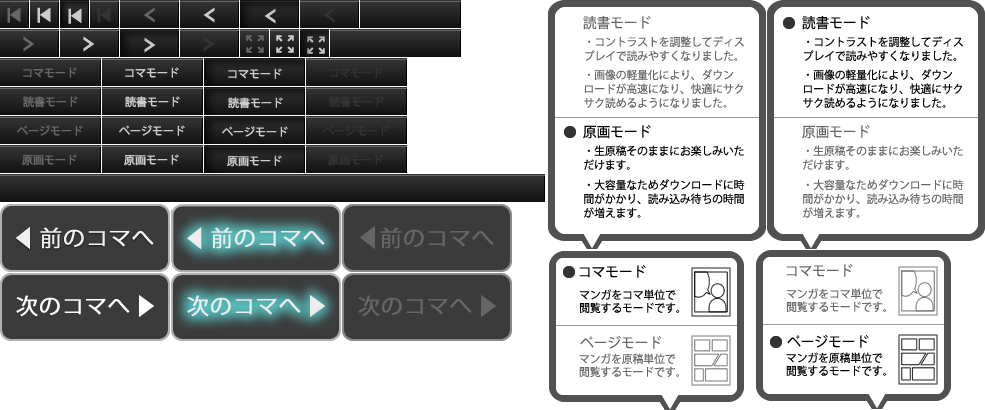
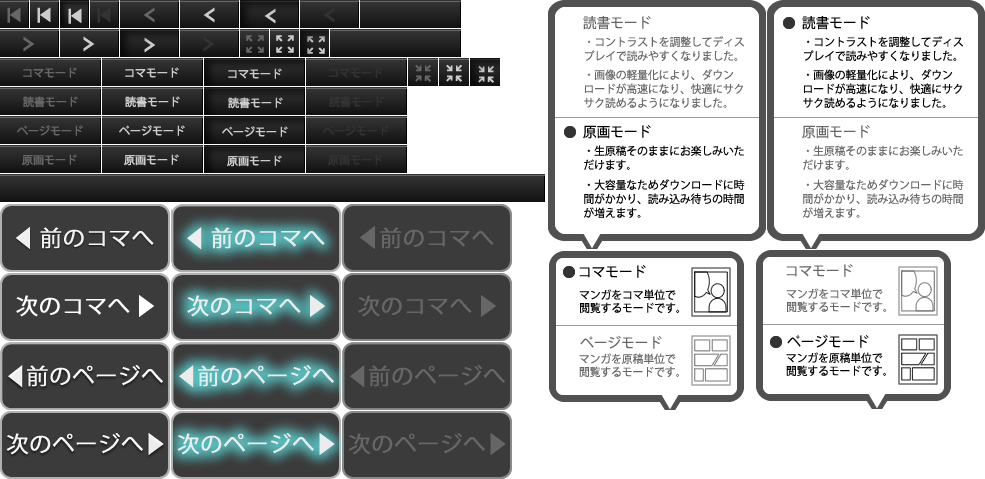
fixed bug

diff --git a/target/dist-release/ja_pc.html b/target/dist-release/ja_pc.html
@@ -10,30 +10,30 @@ var ga = document.createElement('script'); ga.type = 'text/javascript'; ga.async
 ga.src = ('https:' == document.location.protocol ? 'https://ssl' : 'http://www') + '.google-analytics.com/ga.js';
 var s = document.getElementsByTagName('script')[0]; s.parentNode.insertBefore(ga, s);
 })();
-var i=true,o=null,r=false;function L(){return function(){}}var ha={};ha["{comic_title} / #{story_number} {story_title} ({scene_number} / {number_of_scenes} frames)"]={ja:"{comic_title} / \u7b2c{story_number}\u8a71 {story_title} ({scene_number}\u30b3\u30de\u76ee / \u5408\u8a08{number_of_scenes}\u30b3\u30de)"};ha["Loading images"]={ja:"\u7b2c{story_number}/{number_of_story}\u8a71 {story_title}"};function ka(e,d,g,h){function I(){m=U;F(t);$("#toggle_page_view").hide();$("#toggle_scene_view").show();$("#prev_page").hide();$("#prev_show").show()}function Y(){console.log("change_view_page");if(M.enable_page_mode){m=1;F(w);$("#toggle_scene_view").hide();$("#toggle_page_view").show();$("#prev_scene").hide();$("#prev_page").show()}}function V(){s="reading";m===1?F(w):F(t);$("#toggle_original").hide();$("#toggle_reading").show()}function q(){if(M.enable_original_mode){s="original";m===1?F(w):F(t);
-$("#toggle_reading").hide();$("#toggle_original").show()}}function J(a){aa=a;n();j();B=[];B.original=[];B.reading=[];C=[];C.original=[];C.reading=[];D=o;w=t=0;M=o;ba=i;N(0);$("#canvas").css({cursor:"default"});$("#dialog_loading").show();$("#reader").hide();$("#finish").hide();$("#error").hide();ya(aa,function(b){M=b;D=M.scenes;W=M.pages;ra();if(M.enable_original_mode){p($("#toggle_reading"));$("#toggle_reading").bind(x,q);$("#toggle_original").bind(x,V)}if(M.enable_page_mode){p($("#toggle_scene_view"));
-$("#toggle_scene_view").bind(x,Y);$("#toggle_page_view").bind(x,I)}$("#prev_scene").bind(x,K);$("#prev_page").bind(x,K);$("#first_scene").bind(x,X);if(D.length===0)ca();else{da();F(0)}d||za(aa,function(c){console.log(c)})},function(){la()});_gaq.push(["_trackPageview","/event/viewer/open/"+aa])}function j(){if(C!==undefined)for(var a=0;a<C.reading.length;a++){var b=C.reading[a];if(b!==undefined)b.onload=o;b=C.original[a];if(b!==undefined)b.onload=o}}function n(){if(B!==undefined)for(var a=0;a<B.reading.length;a++){var b=
-B.reading[a];if(b!==undefined)b.onload=o;b=B.original[a];if(b!==undefined)b.onload=o}}function da(){function a(b){u();P(b)}$("#canvas").css({cursor:"pointer"});$("#dialog_loading").hide();$("#reader").show();$("#finish").hide();$("#error").hide();$("#canvas").unbind(S,a);$("#canvas").bind(S,a);qa("Loading images");ba=r}function u(){v.reverse=r;v.D=i;if(v.q()){v.w();ea()}else if(v.e()){v.v();ma()}else if(v.p()){if(!ba){var a;a=m===1?w+1:t+1;m===1&&a>=W.length||m===U&&a>=D.length?ca():F(a)}}else throw"Illega state";
-}function ea(){if(v.e()){v.step();ma()}v.e()&&setTimeout(ea,1E3/33)}function ca(){var a=M.next_story_id,b=M.comic_id;N();$("#next").unbind(x);$("#vote").unbind(x);$("#bookmark").unbind(x);if(e){setTimeout(function(){$("#vote").bind(S,function(){k($("#vote"),0)});$("#vote").bind(x,function(c){k($("#vote"),0);setTimeout(function(){Aa(b,aa,function(){na(a,b,"vote")},function(){la()});y()},0);P(c)});$("#bookmark").bind(S,function(){k($("#bookmark"),0)});$("#bookmark").bind(x,function(c){k($("#bookmark"),
-0);setTimeout(function(){Ba(b,function(){na(a,b,"bookmark")},function(){la()});y()},0);P(c)});p($("#vote"));p($("#bookmark"))},500);l($("#vote"));l($("#bookmark"))}else if(d){$("#vote").hide();$("#bookmark").hide()}else{l($("#vote"));l($("#bookmark"))}if(d)$("#next").hide();else{l($("#next"));setTimeout(function(){$("#next").bind(S,function(){k($("#next"),0)});$("#next").bind(x,function(c){setTimeout(function(){na(a,b,"")},0);y();P(c)});p($("#next"))},500)}$("#preview").hide();$("#loading").hide();
-$("#reader").show();$("#error").hide();$("#finish").show();$("#finish_actions").show()}function y(){G();$("#next").hide();$("#vote").hide();$("#bookmark").hide();$("#loading").show();$("#canvas").css({cursor:"wait"})}function z(a){N(500);P(a)}function N(a){if(!($("#menu").css("top")==="0px"||h)){$("#menu_switch").unbind(S,z);$("#menu").animate({top:"0"},a,"swing",function(){$("#menu_switch").unbind(S,z)});if(m===U&&t===0){l($("#prev_scene"));l($("#first_scene"))}else{p($("#prev_scene"));p($("#first_scene"))}if(m===
-1&&w===0){l($("#prev_page"));l($("#first_scene"))}else{p($("#prev_page"));p($("#first_scene"))}}}function G(){$("#menu").css("top")==="0px"&&$("#menu").animate({top:"-132px"},500,"swing",function(){$("#menu_switch").bind(S,z)})}function X(a){if(!(m===1&&0===w||m===U&&0===t)){k($("#first_scene"),500);ia();F(0)}P(a)}function K(a){console.log("goPrev");if(!(m===1&&0===w||m===U&&0===t)){m===1?k($("#prev_page"),500):k($("#prev_scene"),500);ia();var b;b=m===1?w-1:t-1;0<=b&&F(b)}P(a)}function p(a){a.removeClass("disable")}
-function l(a){a.addClass("disable")}function k(a,b){a.addClass("active");0<b&&setTimeout(function(){a.removeClass("active")},b)}function ia(){$("#finish").hide();$("#finish_actions").hide()}function F(a){function b(){if(m===U){var f=D[t];v.h(c,f.scroll_course,f.scroll_speed)}else v.h(c,0,240);$("#loading").hide();ba=r;ma()}G();m===1?ja(a):A(a);Ca(a);ra();var c;c=m===1?C[s][a]:B[s][a];if(c!==undefined&&c.d())b();else{ba=i;N(500);$("#loading").show();v.o();c.onload=b}}function ja(a){var b=a-1;a+=4;
-for(var c=0;c<W.length;c++)if(c<b&&C[s][c]!==undefined)C[s][c]=undefined;else if(b<=c&&c<=a&&C[s][c]===undefined)C[s][c]=Q(W[c].page_id,s,R(fa,W[c].support_size)?fa:W[c].support_size[0])}function A(a){var b=a-4;a+=12;for(var c=0;c<D.length;c++)if(c<b&&B[s][c]!==undefined)B[s][c]=undefined;else if(b<=c&&c<=a&&B[s][c]===undefined)B[s][c]=oa(D[c].scene_id,s,R(fa,D[c].support_size)?fa:D[c].support_size[0])}function Q(a,b,c){var f=new Image;f.d=function(){return this.width>0};f.onerror=function(){console.log("error!"+
-a)};var E="";if(g>0)E="?t="+g;f.src="/api/pageImage/"+a+"/"+b+"/"+c+E;return f}function oa(a,b,c){var f=new Image;f.d=function(){return this.width>0};f.onerror=function(){console.log("error!"+a)};var E="";if(g>0)E="?t="+g;f.src="/api/sceneImage/"+a+"/"+b+"/"+c+E;return f}function na(a,b,c){var f="";if(c!=="")f="?after="+c;parent.document.location.href=a===r?"/comic/view/"+b+"/story/_undelivered"+f:e?"/comic/view/"+b+"/story/"+a+f:"/comic/landing/nomember?next=/comic/view/"+b+"/story/"+a}function la(){$("#preview").show();
-$("#loading").hide();$("#reader").hide();$("#finish").hide();$("#error").show()}function ra(){if(m===1){$("#progress_total").text(W.length);$("#progress_current").text(w+1)}else{$("#progress_total").text(D.length);$("#progress_current").text(t+1)}}function za(a,b){pa("/api/read/"+a,b,void 0)}function Ba(a,b,c){pa("/api/bookmark/"+a,b,c)}function Aa(a,b,c,f){pa("/api/voteStory/"+a+"/"+b+"/1",c,f)}function ya(a,b,c){var f="",E=i;if(d){f="?mode=superuser&k="+ta+"&expire="+ua;E=r}else if(g>0)f="?t="+
-g;va("/api/storyMetaFile/"+a+f,"json",b,c,"get",E)}function pa(a,b,c){va(a,"json",b,c,"post",r)}function va(a,b,c,f,E,Da){$.ajax({url:a,type:E,async:i,cache:Da,dataType:b,success:function(wa){c(wa)},error:function(wa,Ea,Fa){console.log(this);console.log(Ea);console.log(Fa);f()}})}function ma(){var a;a=m===1?C[s][w]:B[s][t];if(!(a===undefined||!a.d())){var b=v.x(),c=v.y();b=(O-a.width)/2+b;c=(T-a.height)/2+c;if(Z.a){a.style.cssText="position: absolute; top: "+c+"px; left:"+b+"px;";$("#canvas").empty().append(a)}else{var f=
-H.getContext("2d");f.fillStyle=H.style.background;f.fillRect(0,0,O,T);if(Z.c){f.save();var E=Math.sqrt(320/screen.width);f.scale(E,E)}f.drawImage(a,b,c);Z.c&&f.restore()}}}function Ca(a){if(m===1){w=a;a=0;for(var b;b<D.length;b++){if(w===D.i.page_number)break;a++}t=a}else{t=a;w=D[t].page_number}}function P(a){if(Z.a)a.returnValue=r;else a.preventDefault()}var O=0,T=0,s="reading",U=0,m=U,aa,M,D,W,B,C,t=0,w=0,ba=r,ta="",ua=0,fa=240;Z.a&&$("#canvas").replaceWith('<div id="canvas" style="background: #000;"></div>');
-var ga=function(){var a=[],b;b=window.location.href.slice(window.location.href.indexOf("?")+1);if(!b)return a;for(var c=b.split("&"),f=0;f<c.length;f++)if(!(c[f].indexOf("=")<0)){b=c[f].split("=");a.push(b[0]);a[b[0]]=b[1].split("#")[0]}return a}();if(d){ta=ga.k;ua=ga.expire}var S=Z.b?"touchstart":"mousedown",x=Z.b?"touchend":"mouseup",H;if(Z.a&&Z.g<8){O=$(window).width();T=$(window).height();$("#mangh5r").width(O);$("#mangh5r").height(T);$("#canvas").width(O);$("#canvas").height(T)}else{ga=$("#mangh5r");
-O=ga.width();T=ga.height();H=$("#canvas")[0];H.width=O;H.style.width=O+"px";H.height=T;H.style.height=O+"px"}fa=H.width<320?240:H.width<480?320:H.width<640?480:640;var v=new sa(O,T);this.u=function(a){$("#thumbnail").attr("src","/icon/story_image/medium/"+a);$("#thumbnail").hide();$("#thumbnail").bind("load",function(){$("#thumbnail").width(H.width);$("#thumbnail").height(H.width*($("#thumbnail").height()/$("#thumbnail").width()));Z.m($("#thumbnail"));$("#thumbnail").show()});$("#preview_ui").show();
-$("#preview").show();$("#preview > *").unbind("click");$("#preview > *").click(function(b){J(a);$("#preview").hide();P(b)})};$(window).keydown(function(a){if(a.which===32||a.which===13||a.which===39||a.Q===40){$("#canvas").trigger("mousedown");a.preventDefault()}else if(a.which===8||a.which===37||a.which===38){"#prev_scene".trigger("mouseup");a.preventDefault()}});this.t=J;this.G=u;$("#menu").css("top","-132px");$("#menu").show();$("#menu_tab").bind(x,function(a){G();P(a)});l($("#toggle_reading"));
-l($("#toggle_scene_view"))};var Z,xa,qa;function Ga(e){e=parseInt(e,10);return isNaN(e)?0:e}function R(e,d){for(var g=0;g<d.length;g++)if(e===d[g])return i;return r}
-function Ha(){this.b=this.c=this.g=this.a=r;this.constructor=function(){if(typeof window.console!=="object")window.console={log:L(),C:L(),info:L(),warn:L(),error:L(),A:L(),dir:L(),F:L(),P:L(),H:L(),I:L(),f:L(),O:L(),profile:L(),K:L(),B:L()};qa=this.n;var e=navigator.userAgent;if(navigator.appName==="Microsoft Internet Explorer"){this.a=i;var d=e.match(/MSIE ([0-9]{1,}[\.0-9]{0,})/);this.g=d!==o?parseFloat(d[1]):6}else this.a=r;if(/Android\s2\.[0|1]/.test(e))this.b=this.c=i;else this.b=/Android/.test(e)?
-i:/iPhone\sOS/.test(e)?i:r};this.m=function(e){e.each(function(){var d=$(window),g=d.height();d=d.width();var h=$(this),I=h.width(),Y=h.height(),V=Ga(h.css("padding-top")),q=Ga(h.css("padding-bottom")),J=Ga(h.css("border-top-width")),j=Ga(h.css("border-bottom-width"));J=(J+j)/2;V=(V+q)/2;q=h.parent().css("position");j={position:"absolute"};j.top=g/2-(Y/2+V+J);j.marginTop=0;j.left=d/2-I/2;j.marginLeft=0;q==="static"&&h.parent().css("position","relative");h.css(j)})};this.n=function(e){if(ha===undefined)return e;
-var d=ha[e];if(d===undefined)return e;d=d.ja;if(d===undefined)return e;return d};this.M=function(e,d){var g=e,h;for(h in d)if(d.hasOwnProperty(h))g=g.replace("{"+h+"}",d[h]);return g};this.J=function(e){var d={};if(e==="undefined"){console.log("GET:Empty");return d}if(e.indexOf("?",0)>-1)e=e.split("?")[1];e=e.split("&");for(var g=0;e.length>g;g++){var h=e[g].split("="),I=h[0];h=h[1];if(I!=="")d[I]=h===undefined?i:decodeURIComponent(h)}return d};this.constructor()}
-$(function(){Z=new Ha;var e=function(){var d;d=location.hash;d=d===undefined||d===o||d.length<=2?[0]:d.substring(1).split(",");var g={};g.j=Math.floor(d[0]);g.r=R("member",d);g.l=R("auto",d);g.z=R("superuser",d);g.s=R("nomenu",d);for(var h=g.f=0;h<d.length;h++){var I;I=d[h].match(/[^0-9]/g)?r:i;if(I){g.f=d[h];break}}console.log(d);console.log(g);return g}();xa=new ka(e.r,e.z,e.f,e.s);e.l?xa.t(e.j):xa.u(e.j)});function sa(e,d){function g(){if(!(j<=n)){p=Y[u][n];l=V[u][n];if(p!==0&&l!==0){var A=G-N,Q=K-X;if(A<Q){if(A!==0)p=p*Q/A}else if(A>Q)if(Q!==0)l=l*A/Q}if(p!==0)p=da*1E4/p;if(l!==0)l=da*1E4/l}}var h=[0,0,0,-1,1,-1,-1,1,1],I=[0,1,-1,0,0,1,1,1,1],Y=[[0,0,0],[0,0,0],[0,0,0],[3300,0,0],[-3300,0,0],[0,3300,0],[3300,-3300,3300],[0,-3300,0],[-3300,3300,-3300]],V=[[0,0,0],[-3300,0,0],[3300,0,0],[0,0,0],[0,0,0],[-3300,3300,-3300],[0,-3300,0],[-3300,3300,-3300],[0,-3300,0]],q=r,J=r,j,n,da,u,ea,ca,y=0,z=0,N,G,
-X,K,p,l,k=r,ia=this.o=function(){j=n=0;k=J=q=r};this.x=function(){return y/100};this.y=function(){return z/100};this.p=function(){return j===0||q===r&&n===j};this.q=function(){return k?j!=0&&q==r&&n>=j:j!=0&&q==r&&n<=0};this.N=function(){q=i;n=j-1};var F=this.e=function(){return q};this.w=function(){q=i};this.h=function(A,Q,oa){ia();da=oa;u=Q;ea=A.width;ca=A.height;j=Y[u].length;G=(ea-e)*100/2;N=-G;scrollable_y=scrollable_x=r;if(G<=0)y=0;else{y=(k?-1:1)*h[u]*G;scrollable_x=i}K=(ca-d)*100/2;X=-K;if(K<=
-0)z=0;else{z=(k?-1:1)*I[u]*K;scrollable_y=i}J=r;if(u!=0&&(scrollable_x||scrollable_y)){J=i;if(u>4)if(scrollable_x)scrollable_y||(u=u==5||u==6?3:4);else u=1}J||(j=0);n=k&&n<j?j:0;g();q=r};var ja=this.step=function(){if(q)if(!(!k&&j<=n||k&&n<0)){g();var A=r;if(p!==0&&y>=N&&y<=G){y+=k?-p:p;if(y<=N)y=N;else if(y>=G)y=G;else A=i}if(l!==0&&z>=X&&z<=K){z+=k?-l:l;if(z<=X)z=X;else if(z>=K)z=K;else A=i}if(!A){if(k)n--;else n++;if(!k&&n>=j)q=r;else if(k&&n<0)q=r}}};this.v=function(){for(;n<j&&F();)ja()};this.L=
-function(){q=k=i;for(n--;0<n;)ja()}};
+var i=true,m=null,r=false;function M(){return function(){}}var aa={};aa["{comic_title} / #{story_number} {story_title} ({scene_number} / {number_of_scenes} frames)"]={ja:"{comic_title} / \u7b2c{story_number}\u8a71 {story_title} ({scene_number}\u30b3\u30de\u76ee / \u5408\u8a08{number_of_scenes}\u30b3\u30de)"};aa["Loading images"]={ja:"\u7b2c{story_number}/{number_of_story}\u8a71 {story_title}"};function ia(e,d,g,h){function I(){n=V;F(t);$("#toggle_page_view").hide();$("#toggle_scene_view").show();$("#prev_page").hide();$("#prev_scene").show()}function Z(){console.log("change_view_page");if(J.enable_page_mode){n=1;F(w);$("#toggle_scene_view").hide();$("#toggle_page_view").show();$("#prev_scene").hide();$("#prev_page").show()}}function W(){s="reading";n===1?F(w):F(t);$("#toggle_original").hide();$("#toggle_reading").show()}function q(){if(J.enable_original_mode){s="original";n===1?F(w):F(t);
+$("#toggle_reading").hide();$("#toggle_original").show()}}function K(a){ba=a;o();j();B=[];B.original=[];B.reading=[];C=[];C.original=[];C.reading=[];D=m;w=t=0;J=m;ca=i;N(0);$("#canvas").css({cursor:"default"});$("#dialog_loading").show();$("#reader").hide();$("#finish").hide();$("#error").hide();Aa(ba,function(b){J=b;D=J.scenes;X=J.pages;if(J.csn)ja=i;ta();if(J.enable_original_mode){p($("#toggle_reading"));$("#toggle_reading").bind(x,q);$("#toggle_original").bind(x,W)}if(J.enable_page_mode){p($("#toggle_scene_view"));
+$("#toggle_scene_view").bind(x,Z);$("#toggle_page_view").bind(x,I)}$("#prev_scene").bind(x,L);$("#prev_page").bind(x,L);$("#first_scene").bind(x,Y);if(D.length===0)da();else{ea();F(0)}d||Ba(ba,function(c){console.log(c)})},function(){na()});_gaq.push(["_trackPageview","/event/viewer/open/"+ba])}function j(){if(C!==undefined)for(var a=0;a<C.reading.length;a++){var b=C.reading[a];if(b!==undefined)b.onload=m;b=C.original[a];if(b!==undefined)b.onload=m}}function o(){if(B!==undefined)for(var a=0;a<B.reading.length;a++){var b=
+B.reading[a];if(b!==undefined)b.onload=m;b=B.original[a];if(b!==undefined)b.onload=m}}function ea(){function a(b){u();Q(b)}$("#canvas").css({cursor:"pointer"});$("#dialog_loading").hide();$("#reader").show();$("#finish").hide();$("#error").hide();$("#canvas").unbind(T,a);$("#canvas").bind(T,a);ma("Loading images");ca=r}function u(){v.reverse=r;v.C=i;if(v.p()){v.v();fa()}else if(v.e()){v.u();oa()}else if(v.o()){if(!ca){var a;a=n===1?w+1:t+1;n===1&&a>=X.length||n===V&&a>=D.length?da():F(a)}}else throw"Illega state";
+}function fa(){if(v.e()){v.step();oa()}v.e()&&setTimeout(fa,1E3/33)}function da(){var a=J.next_story_id,b=J.comic_id;N();$("#next").unbind(x);$("#vote").unbind(x);$("#bookmark").unbind(x);if(e){setTimeout(function(){$("#vote").bind(T,function(){k($("#vote"),0)});$("#vote").bind(x,function(c){k($("#vote"),0);setTimeout(function(){Ca(b,ba,function(){pa(a,b,"vote")},function(){na()});y()},0);Q(c)});$("#bookmark").bind(T,function(){k($("#bookmark"),0)});$("#bookmark").bind(x,function(c){k($("#bookmark"),
+0);setTimeout(function(){Da(b,function(){pa(a,b,"bookmark")},function(){na()});y()},0);Q(c)});p($("#vote"));p($("#bookmark"))},500);l($("#vote"));l($("#bookmark"))}else if(d){$("#vote").hide();$("#bookmark").hide()}else{l($("#vote"));l($("#bookmark"))}if(d)$("#next").hide();else{l($("#next"));setTimeout(function(){$("#next").bind(T,function(){k($("#next"),0)});$("#next").bind(x,function(c){setTimeout(function(){pa(a,b,"")},0);y();Q(c)});p($("#next"))},500)}$("#preview").hide();$("#loading").hide();
+$("#reader").show();$("#error").hide();$("#finish").show();$("#finish_actions").show()}function y(){G();$("#next").hide();$("#vote").hide();$("#bookmark").hide();$("#loading").show();$("#canvas").css({cursor:"wait"})}function z(a){N(500);Q(a)}function N(a){if(!($("#menu").css("top")==="0px"||h)){$("#menu_switch").unbind(T,z);$("#menu").animate({top:"0"},a,"swing",function(){$("#menu_switch").unbind(T,z)});if(n===V&&t===0){l($("#prev_scene"));l($("#first_scene"))}else{p($("#prev_scene"));p($("#first_scene"))}if(n===
+1&&w===0){l($("#prev_page"));l($("#first_scene"))}else{p($("#prev_page"));p($("#first_scene"))}}}function G(){$("#menu").css("top")==="0px"&&$("#menu").animate({top:"-132px"},500,"swing",function(){$("#menu_switch").bind(T,z)})}function Y(a){if(!(n===1&&0===w||n===V&&0===t)){k($("#first_scene"),500);ka();F(0)}Q(a)}function L(a){console.log("goPrev");if(!(n===1&&0===w||n===V&&0===t)){n===1?k($("#prev_page"),500):k($("#prev_scene"),500);ka();var b;b=n===1?w-1:t-1;0<=b&&F(b)}Q(a)}function p(a){a.removeClass("disable")}
+function l(a){a.addClass("disable")}function k(a,b){a.addClass("active");0<b&&setTimeout(function(){a.removeClass("active")},b)}function ka(){$("#finish").hide();$("#finish_actions").hide()}function F(a){function b(){if(n===V){var f=D[t];v.h(c,f.scroll_course,f.scroll_speed)}else v.h(c,0,240);$("#loading").hide();ca=r;oa()}G();n===1?la(a):A(a);Ea(a);ta();var c;c=n===1?C[s][a]:B[s][a];if(c!==undefined&&c.d())b();else{ca=i;N(500);$("#loading").show();v.n();c.onload=b}}function la(a){var b=a-1;a+=4;
+for(var c=0;c<X.length;c++)if(c<b&&C[s][c]!==undefined)C[s][c]=undefined;else if(b<=c&&c<=a&&C[s][c]===undefined)C[s][c]=R(X[c].page_id,s,sa(ga,X[c].support_size)?ga:X[c].support_size[0])}function A(a){var b=a-4;a+=12;for(var c=0;c<D.length;c++)if(c<b&&B[s][c]!==undefined)B[s][c]=undefined;else if(b<=c&&c<=a&&B[s][c]===undefined)B[s][c]=qa(D[c].scene_id,s,sa(ga,D[c].support_size)?ga:D[c].support_size[0])}function R(a,b,c){var f=new Image;f.d=function(){return this.width>0};f.onerror=function(){console.log("error!"+
+a)};var E="";if(g>0)E="?t="+g;var O="";if(ja)O="http://cdn."+location.host;f.src=O+"/api/pageImage/"+a+"/"+b+"/"+c+E;return f}function qa(a,b,c){var f=new Image;f.d=function(){return this.width>0};f.onerror=function(){console.log("error!"+a)};var E="";if(g>0)E="?t="+g;var O="";if(ja)O="http://cdn."+location.host;f.src=O+"/api/sceneImage/"+a+"/"+b+"/"+c+E;return f}function pa(a,b,c){var f="";if(c!=="")f="?after="+c;parent.document.location.href=a===r?"/comic/view/"+b+"/story/_undelivered"+f:e?"/comic/view/"+
+b+"/story/"+a+f:"/comic/landing/nomember?next=/comic/view/"+b+"/story/"+a}function na(){$("#preview").show();$("#loading").hide();$("#reader").hide();$("#finish").hide();$("#error").show()}function ta(){if(n===1){$("#progress_total").text(X.length);$("#progress_current").text(w+1)}else{$("#progress_total").text(D.length);$("#progress_current").text(t+1)}}function Ba(a,b){ra("/api/read/"+a,b,void 0)}function Da(a,b,c){ra("/api/bookmark/"+a,b,c)}function Ca(a,b,c,f){ra("/api/voteStory/"+a+"/"+b+"/1",
+c,f)}function Aa(a,b,c){var f="",E=i;if(d){f="?mode=superuser&k="+va+"&expire="+wa;E=r}else if(g>0)f="?t="+g;var O="";if(ja)O="http://cdn."+location.host;xa(O+"/api/storyMetaFile/"+a+f,"json",b,c,"get",E)}function ra(a,b,c){xa(a,"json",b,c,"post",r)}function xa(a,b,c,f,E,O){$.ajax({url:a,type:E,async:i,cache:O,dataType:b,success:function(ya){c(ya)},error:function(ya,Fa,Ga){console.log(this);console.log(Fa);console.log(Ga);f()}})}function oa(){var a;a=n===1?C[s][w]:B[s][t];if(!(a===undefined||!a.d())){var b=
+v.x(),c=v.y();b=(P-a.width)/2+b;c=(U-a.height)/2+c;if(S.a){a.style.cssText="position: absolute; top: "+c+"px; left:"+b+"px;";$("#canvas").empty().append(a)}else{var f=H.getContext("2d");f.fillStyle=H.style.background;f.fillRect(0,0,P,U);if(S.c){f.save();var E=Math.sqrt(320/screen.width);f.scale(E,E)}f.drawImage(a,b,c);S.c&&f.restore()}}}function Ea(a){if(n===1){w=a;a=0;for(var b;b<D.length;b++){if(w===D[b].page_number-1)break;a++}t=a}else{t=a;w=D[t].page_number-1}}function Q(a){if(S.a)a.returnValue=
+r;else a.preventDefault()}var P=0,U=0,s="reading",V=0,n=V,ba,J,D,X,B,C,t=0,w=0,ca=r,va="",wa=0,ga=240,ja=r;S.a&&$("#canvas").replaceWith('<div id="canvas" style="background: #000;"></div>');var ha=function(){var a=[],b;b=window.location.href.slice(window.location.href.indexOf("?")+1);if(!b)return a;for(var c=b.split("&"),f=0;f<c.length;f++)if(!(c[f].indexOf("=")<0)){b=c[f].split("=");a.push(b[0]);a[b[0]]=b[1].split("#")[0]}return a}();if(d){va=ha.k;wa=ha.expire}var T=S.b?"touchstart":"mousedown",
+x=S.b?"touchend":"mouseup",H;if(S.a&&S.g<8){P=$(window).width();U=$(window).height();$("#mangh5r").width(P);$("#mangh5r").height(U);$("#canvas").width(P);$("#canvas").height(U)}else{ha=$("#mangh5r");P=ha.width();U=ha.height();H=$("#canvas")[0];H.width=P;H.style.width=P+"px";H.height=U;H.style.height=P+"px"}ga=H.width<320?240:H.width<480?320:H.width<640?480:640;var v=new ua(P,U);this.t=function(a){$("#thumbnail").attr("src","/icon/story_image/medium/"+a);$("#thumbnail").hide();$("#thumbnail").bind("load",
+function(){$("#thumbnail").width(H.width);$("#thumbnail").height(H.width*($("#thumbnail").height()/$("#thumbnail").width()));S.l($("#thumbnail"));$("#thumbnail").show()});$("#preview_ui").show();$("#preview").show();$("#preview > *").unbind("click");$("#preview > *").click(function(b){K(a);$("#preview").hide();Q(b)})};$(window).keydown(function(a){if(a.which===32||a.which===13||a.which===39||a.P===40){$("#canvas").trigger("mousedown");a.preventDefault()}else if(a.which===8||a.which===37||a.which===
+38){"#prev_scene".trigger("mouseup");a.preventDefault()}});this.s=K;this.F=u;$("#menu").css("top","-132px");$("#menu").show();$("#menu_tab").bind(x,function(a){G();Q(a)});l($("#toggle_reading"));l($("#toggle_scene_view"))};var S,za,ma;function Ha(e){e=parseInt(e,10);return isNaN(e)?0:e}function sa(e,d){for(var g=0;g<d.length;g++)if(e===d[g])return i;return r}
+function Ia(){this.b=this.c=this.g=this.a=r;this.constructor=function(){if(typeof window.console!=="object")window.console={log:M(),B:M(),info:M(),warn:M(),error:M(),z:M(),dir:M(),D:M(),O:M(),G:M(),H:M(),f:M(),N:M(),profile:M(),J:M(),A:M()};ma=this.m;var e=navigator.userAgent;if(navigator.appName==="Microsoft Internet Explorer"){this.a=i;var d=e.match(/MSIE ([0-9]{1,}[\.0-9]{0,})/);this.g=d!==m?parseFloat(d[1]):6}else this.a=r;if(/Android\s2\.[0|1]/.test(e))this.b=this.c=i;else this.b=/Android/.test(e)?
+i:/iPhone\sOS/.test(e)?i:r};this.l=function(e){e.each(function(){var d=$(window),g=d.height();d=d.width();var h=$(this),I=h.width(),Z=h.height(),W=Ha(h.css("padding-top")),q=Ha(h.css("padding-bottom")),K=Ha(h.css("border-top-width")),j=Ha(h.css("border-bottom-width"));K=(K+j)/2;W=(W+q)/2;q=h.parent().css("position");j={position:"absolute"};j.top=g/2-(Z/2+W+K);j.marginTop=0;j.left=d/2-I/2;j.marginLeft=0;q==="static"&&h.parent().css("position","relative");h.css(j)})};this.m=function(e){if(aa===undefined)return e;
+var d=aa[e];if(d===undefined)return e;d=d.ja;if(d===undefined)return e;return d};this.L=function(e,d){var g=e,h;for(h in d)if(d.hasOwnProperty(h))g=g.replace("{"+h+"}",d[h]);return g};this.I=function(e){var d={};if(e==="undefined"){console.log("GET:Empty");return d}if(e.indexOf("?",0)>-1)e=e.split("?")[1];e=e.split("&");for(var g=0;e.length>g;g++){var h=e[g].split("="),I=h[0];h=h[1];if(I!=="")d[I]=h===undefined?i:decodeURIComponent(h)}return d};this.constructor()}
+$(function(){S=new Ia;var e=function(){var d;d=location.hash;d=d===undefined||d===m||d.length<=2?[0]:d.substring(1).split(",");var g={};g.i=Math.floor(d[0]);g.q=sa("member",d);g.j=sa("auto",d);g.w=sa("superuser",d);g.r=sa("nomenu",d);for(var h=g.f=0;h<d.length;h++){var I;I=d[h].match(/[^0-9]/g)?r:i;if(I){g.f=d[h];break}}console.log(d);console.log(g);return g}();za=new ia(e.q,e.w,e.f,e.r);e.j?za.s(e.i):za.t(e.i)});function ua(e,d){function g(){if(!(j<=o)){p=Z[u][o];l=W[u][o];if(p!==0&&l!==0){var A=G-N,R=L-Y;if(A<R){if(A!==0)p=p*R/A}else if(A>R)if(R!==0)l=l*A/R}if(p!==0)p=ea*1E4/p;if(l!==0)l=ea*1E4/l}}var h=[0,0,0,-1,1,-1,-1,1,1],I=[0,1,-1,0,0,1,1,1,1],Z=[[0,0,0],[0,0,0],[0,0,0],[3300,0,0],[-3300,0,0],[0,3300,0],[3300,-3300,3300],[0,-3300,0],[-3300,3300,-3300]],W=[[0,0,0],[-3300,0,0],[3300,0,0],[0,0,0],[0,0,0],[-3300,3300,-3300],[0,-3300,0],[-3300,3300,-3300],[0,-3300,0]],q=r,K=r,j,o,ea,u,fa,da,y=0,z=0,N,G,
+Y,L,p,l,k=r,ka=this.n=function(){j=o=0;k=K=q=r};this.x=function(){return y/100};this.y=function(){return z/100};this.o=function(){return j===0||q===r&&o===j};this.p=function(){return k?j!=0&&q==r&&o>=j:j!=0&&q==r&&o<=0};this.M=function(){q=i;o=j-1};var F=this.e=function(){return q};this.v=function(){q=i};this.h=function(A,R,qa){ka();ea=qa;u=R;fa=A.width;da=A.height;j=Z[u].length;G=(fa-e)*100/2;N=-G;scrollable_y=scrollable_x=r;if(G<=0)y=0;else{y=(k?-1:1)*h[u]*G;scrollable_x=i}L=(da-d)*100/2;Y=-L;if(L<=
+0)z=0;else{z=(k?-1:1)*I[u]*L;scrollable_y=i}K=r;if(u!=0&&(scrollable_x||scrollable_y)){K=i;if(u>4)if(scrollable_x)scrollable_y||(u=u==5||u==6?3:4);else u=1}K||(j=0);o=k&&o<j?j:0;g();q=r};var la=this.step=function(){if(q)if(!(!k&&j<=o||k&&o<0)){g();var A=r;if(p!==0&&y>=N&&y<=G){y+=k?-p:p;if(y<=N)y=N;else if(y>=G)y=G;else A=i}if(l!==0&&z>=Y&&z<=L){z+=k?-l:l;if(z<=Y)z=Y;else if(z>=L)z=L;else A=i}if(!A){if(k)o--;else o++;if(!k&&o>=j)q=r;else if(k&&o<0)q=r}}};this.u=function(){for(;o<j&&F();)la()};this.K=
+function(){q=k=i;for(o--;0<o;)la()}};
 
-</script><style type="text/css">body{font:12px Arial,sans-serif;background-color:#000;color:#fff;height:100%;width:100%;margin:0;overflow:hidden;position:fixed;-webkit-tap-highlight-color:rgba(0,0,0,0);-webkit-touch-callout:none;-webkit-user-select:none;}.stage{position:absolute;left:0;top:0;height:100%;width:100%;display:none;}.ui{z-index:10;cursor:pointer;}.mask{z-index:5;position:absolute;left:0;top:0;height:100%;width:100%;background:#000;filter:alpha(opacity = 40);opacity:.4;}.msg{position:fixed;top:0;left:0;z-index:10;background-color:black;padding:4px 12px 4px 12px;color:white;font-size:140%;}.vhcenter{width:100%;height:100%;}#mangh5r{position:absolute;left:0;top:0;height:100%;width:100%;padding:0;}#preview{z-index:1;}#preview_ui{z-index:10;position:absolute;cursor:pointer;}#preview_ui .preview_btn{position:absolute;}#start_ui{position:absolute;width:100%;top:50%;}#start{position:relative;display:block;margin:auto;}#thumbnail{z-index:2;position:absolute;left:0;top:0;}#dialog{z-index:10;position:absolute;width:100%;top:50%;}#dialog_loading{z-index:10;position:relative;margin:auto;}#loading .message{color:white;font-size:140%;padding:8px 4px;background-color:black;border-style:solid;border-width:thin;}#reader{z-index:1;}#canvas{z-index:2;cursor:pointer;display:block;position:absolute;left:0;top:0;height:100%;width:100%;}#reader *{cursor:pointer;}#unloaded{z-index:10;cursor:wait;}#info{z-index:9;}#finish{z-index:8;}#finish_ui{z-index:9;position:absolute;width:100%;bottom:10%;}#menu{position:absolute;z-index:10;left:0;top:0;width:100%;display:block;text-align:center;margin:0;background-color:rgba(0,0,0,0.75);filter:alpha(opacity = 75);}#menu_upper{position:relative;width:100%;}#menu_lower{position:relative;width:100%;}#toggle_reading,#toggle_original{z-index:12;position:relative;top:0;float:left;}#toggle_scene_view,#toggle_page_view{z-index:12;position:relative;top:0;float:right;}#prev_scene{z-index:12;position:relative;top:0;float:left;margin:4px 8px 4px 8px;}#prev_page{z-index:12;position:relative;top:0;float:left;margin:4px 8px 4px 8px;}#first_scene{z-index:12;position:relative;top:0;float:right;margin:4px 8px 4px 8px;}#menu_switch{position:absolute;width:100%;height:20%;z-index:9;}#menu_center{position:absolute;width:100%;height:100%;text-aligh:center;}#menu_tab{z-index:12;position:relative;margin:auto;}#menu_tab_wrap{position:absolute;width:100%;bottom:10%;left:0;}#next{z-index:14;position:relative;margin:auto;}#finish_actions{position:relative;text-align:center;margin:auto;}#finish_social_actions{margin:auto;width:100%;}#vote{z-index:14;position:relative;float:right;margin:auto;}#bookmark{z-index:14;position:relative;float:left;margin:auto;}#progress{z-index:10;width:100%;heght:100%;color:white;font-size:120%;font-weight:bold;top:50%;left:0;position:absolute;}#error{z-index:10;}</style><script type="text/javascript" > var fileref=document.createElement("link"); fileref.setAttribute("rel", "stylesheet"); fileref.setAttribute("type", "text/css"); if($(window).width() <= 320){ fileref.setAttribute("href", "layout.320.css" ); }else{ fileref.setAttribute("href", "layout.480.css" ); } document.getElementsByTagName('head').item(0).appendChild(fileref); </script></head><body scrolling="no"><div id="mangh5r"><div id="preview" class="stage"><img id="thumbnail" class="ui" title="クリックするとマンガ閲覧をスタートします"/><div id="preview_ui" class="vhcenter"><span id="start_ui"><span id="start" class="sprite" title="マンガを読む"></span></span></div></div><div id="reader" class="stage"><canvas id="canvas"></canvas></div><div id="menu" style="display:none;"><div id="menu_upper"><span id="toggle_reading" class="sprite disable" title="読書モード" ></span><span id="toggle_original" class="sprite" title="原画モード" style="display:none;"></span><span id="toggle_scene_view" class="sprite disable" title="コマ表示"></span><span id="toggle_page_view" class="sprite" title="ページ表示" style="display:none;"></span></div><div id="menu_lower"><span id="prev_scene" class="sprite disable" title="前のコマへ"></span><span id="prev_page" class="sprite disable" style="display:none;" title="前のページへ"></span><span id="first_scene" class="sprite disable" title="最初から読む"></span></div><div id="menu_center"><span id="progress" ><span id="progress_current">--</span>/<span id="progress_total">--</span></span><span id="menu_tab_wrap"><span id="menu_tab" class="sprite" ></span></span></div></div><div id="menu_switch" ></div><div id="finish" class="stage"><div class="mask"></div><div id="finish_ui" ><div id="finish_actions"><div id="finish_social_actions"><span id="vote" class="sprite disable" title="イイネを押して次へ"></span><span id="bookmark" class="sprite disable" title="ブックマークを押して次へ"></span></div><span id="next" class="sprite disable" title="次の話へ"></span></div></div></div><div id="dialog"><div id="dialog_loading" class="sprite" style="display:none;"></div></div><div id="error" class="stage"><div class="mask"></div><div id="dialog_error" class="sprite"><span class="msg">このマンガは既に削除されたか<br />公開停止になっています。</span></div></div></div></body></html>
+</script><style type="text/css">body{font:12px Arial,sans-serif;background-color:#000;color:#fff;height:100%;width:100%;margin:0;overflow:hidden;position:fixed;-webkit-tap-highlight-color:rgba(0,0,0,0);-webkit-touch-callout:none;-webkit-user-select:none;}.stage{position:absolute;left:0;top:0;height:100%;width:100%;display:none;}.ui{z-index:10;cursor:pointer;}.mask{z-index:5;position:absolute;left:0;top:0;height:100%;width:100%;background:#000;filter:alpha(opacity = 40);opacity:.4;}.msg{position:fixed;top:0;left:0;z-index:10;background-color:black;padding:4px 12px 4px 12px;color:white;font-size:140%;}.vhcenter{width:100%;height:100%;}#mangh5r{position:absolute;left:0;top:0;height:100%;width:100%;padding:0;}#preview{z-index:1;}#preview_ui{z-index:10;position:absolute;cursor:pointer;}#preview_ui .preview_btn{position:absolute;}#start_ui{position:absolute;width:100%;top:50%;}#start{position:relative;display:block;margin:auto;}#thumbnail{z-index:2;position:absolute;left:0;top:0;}#dialog{z-index:10;position:absolute;width:100%;top:50%;}#dialog_loading{z-index:10;position:relative;margin:auto;}#loading .message{color:white;font-size:140%;padding:8px 4px;background-color:black;border-style:solid;border-width:thin;}#reader{z-index:1;}#canvas{z-index:2;cursor:pointer;display:block;position:absolute;left:0;top:0;height:100%;width:100%;}#reader *{cursor:pointer;}#unloaded{z-index:10;cursor:wait;}#info{z-index:9;}#finish{z-index:8;}#finish_ui{z-index:9;position:absolute;width:100%;bottom:10%;}#menu{position:absolute;z-index:10;left:0;top:0;width:100%;display:block;text-align:center;margin:0;background-color:rgba(0,0,0,0.75);filter:alpha(opacity = 75);}#menu_upper{position:relative;width:100%;}#menu_lower{position:relative;width:100%;}#toggle_reading,#toggle_original{z-index:12;position:relative;top:0;float:left;}#toggle_scene_view,#toggle_page_view{z-index:12;position:relative;top:0;float:right;}#prev_scene{z-index:12;position:relative;top:0;float:left;margin:4px 8px 4px 8px;}#prev_page{z-index:12;position:relative;top:0;float:left;margin:4px 8px 4px 8px;}#first_scene{z-index:12;position:relative;top:0;float:right;margin:4px 8px 4px 8px;}#menu_switch{position:absolute;width:100%;height:20%;z-index:9;}#menu_center{position:absolute;width:100%;height:100%;text-aligh:center;}#menu_tab{z-index:12;position:relative;margin:auto;}#menu_tab_wrap{position:absolute;width:100%;bottom:10%;left:0;}#next{z-index:14;position:relative;margin:auto;}#finish_actions{position:relative;text-align:center;margin:auto;}#finish_social_actions{margin:auto;width:100%;}#vote{z-index:14;position:relative;float:right;margin:auto;}#bookmark{z-index:14;position:relative;float:left;margin:auto;}#progress{z-index:10;width:100%;heght:100%;color:white;font-size:120%;font-weight:bold;top:50%;left:0;position:absolute;}#error{z-index:10;}</style><script type="text/javascript" > var fileref=document.createElement("link"); fileref.setAttribute("rel", "stylesheet"); fileref.setAttribute("type", "text/css"); if($(window).width() <= 320){ fileref.setAttribute("href", "layout.320.css?v=1" ); }else{ fileref.setAttribute("href", "layout.480.css?v=1" ); } document.getElementsByTagName('head').item(0).appendChild(fileref); </script></head><body scrolling="no"><div id="mangh5r"><div id="preview" class="stage"><img id="thumbnail" class="ui" title="クリックするとマンガ閲覧をスタートします"/><div id="preview_ui" class="vhcenter"><span id="start_ui"><span id="start" class="sprite" title="マンガを読む"></span></span></div></div><div id="reader" class="stage"><canvas id="canvas"></canvas></div><div id="menu" style="display:none;"><div id="menu_upper"><span id="toggle_reading" class="sprite disable" title="読書モード" ></span><span id="toggle_original" class="sprite" title="原画モード" style="display:none;"></span><span id="toggle_scene_view" class="sprite disable" title="コマ表示"></span><span id="toggle_page_view" class="sprite" title="ページ表示" style="display:none;"></span></div><div id="menu_lower"><span id="prev_scene" class="sprite disable" title="前のコマへ"></span><span id="prev_page" class="sprite disable" style="display:none;" title="前のページへ"></span><span id="first_scene" class="sprite disable" title="最初から読む"></span></div><div id="menu_center"><span id="progress" ><span id="progress_current">--</span>/<span id="progress_total">--</span></span><span id="menu_tab_wrap"><span id="menu_tab" class="sprite" ></span></span></div></div><div id="menu_switch" ></div><div id="finish" class="stage"><div class="mask"></div><div id="finish_ui" ><div id="finish_actions"><div id="finish_social_actions"><span id="vote" class="sprite disable" title="イイネを押して次へ"></span><span id="bookmark" class="sprite disable" title="ブックマークを押して次へ"></span></div><span id="next" class="sprite disable" title="次の話へ"></span></div></div></div><div id="dialog"><div id="dialog_loading" class="sprite" style="display:none;"></div></div><div id="error" class="stage"><div class="mask"></div><div id="dialog_error" class="sprite"><span class="msg">このマンガは既に削除されたか<br />公開停止になっています。</span></div></div></div></body></html>

diff --git a/src/main/resources/Controll.js b/src/main/resources/Controll.js
@@ -180,7 +180,12 @@ var popUpChangeView = function(){
   $("#popup_original").hide();
 };
 
+var isFullScreen = function(){
+  return $("#fullscreen_next").size > 0;
+}
+
 var startReader = function(storyId){
+    var current_view = "";
     $('iframe:first').load(function(e){
       setInterval(function(){
         if(Controll.supportOriginalMode()){
@@ -194,28 +199,51 @@ var startReader = function(storyId){
         if(cur == '1' || cur == '--'){
           $("#menu_first").addClass("disable");
           $("#menu_prev").addClass("disable");
+          $("#fullscreen_prev").addClass("disable");
+          $("#fullscreen_page_prev").addClass("disable");
         }else{
           $("#menu_first").removeClass("disable");
           $("#menu_prev").removeClass("disable");
+          $("#fullscreen_prev").removeClass("disable");
+          $("#fullscreen_page_prev").removeClass("disable");
         }
         if(cur != '--' && cur == total){
           $("#menu_next").addClass("disable");
+          $("#fullscreen_next").addClass("disable");
+          $("#fullscreen_page_next").addClass("disable");
         }else{
           $("#menu_next").removeClass("disable");
+          $("#fullscreen_next").removeClass("disable");
+          $("#fullscreen_page_next").removeClass("disable");
         }
         $("#progress_current").text(cur);
         $("#progress_total").text(total);
+        if(current_view !=  Controll.view()){
+          if(Controll.view() === 'page'){
+            $("#fullscreen_next").hide();
+            $("#fullscreen_prev").hide();
+            $("#fullscreen_page_next").show();
+            $("#fullscreen_page_prev").show();
+          }else{
+            $("#fullscreen_page_next").hide();
+            $("#fullscreen_page_prev").hide();
+            $("#fullscreen_next").show();
+            $("#fullscreen_prev").show();
+          }
+        }
       }, 100);
     });
-    var pp_r_left = $("#menu_mode_reading").offset().left;
-    var pp_r_top = $("#menu_mode_reading").offset().top-249;
-    var pp_s_left = $("#menu_scene_view").offset().left-90;
-    var pp_s_top = $("#menu_scene_view").offset().top-159;
 
-    $("#popup_reading").css({top:pp_r_top, left:pp_r_left});
-    $("#popup_original").css({top:pp_r_top, left:pp_r_left});
-    $("#popup_scene").css({top:pp_s_top, left:pp_s_left});
-    $("#popup_page").css({top:pp_s_top, left:pp_s_left});
+    if(isFullScreen()){
+        var pp_r_left = $("#menu_mode_reading").offset().left;
+        var pp_r_top = $("#menu_mode_reading").offset().top-249;
+        var pp_s_left = $("#menu_scene_view").offset().left-90;
+        var pp_s_top = $("#menu_scene_view").offset().top-159;
+        $("#popup_reading").css({top:pp_r_top, left:pp_r_left});
+        $("#popup_original").css({top:pp_r_top, left:pp_r_left});
+        $("#popup_scene").css({top:pp_s_top, left:pp_s_left});
+        $("#popup_page").css({top:pp_s_top, left:pp_s_left});
+    }
 
     $("#menu_first").click(Controll.first);
     $("#menu_prev").click(Controll.prev);
@@ -225,7 +253,7 @@ var startReader = function(storyId){
     $("#menu_scene_view").click(popUpChangeView);
     $("#menu_page_view").click(popUpChangeView);
     $("#menu_fullscreen").click(function(){
-      window.open('/viewer/html5/'+storyId,"new","width="+(screen.availWidth-22)+", height="+(screen.availHeight-44)+",fullscreen=1,scrollbars=1,toolbar=1,menubar=1,staus=1,resizable=1");
+      location.href = '/viewer/html5/'+storyId;
     });
     $("#popup_reading").click(toggleMode);
     $("#popup_original").click(toggleMode);

diff --git a/src/main/js/Reader.js b/src/main/js/Reader.js
@@ -36,6 +36,7 @@ function $Reader(_member, _superuser, _t, _nomenu) {
   var su_expire = 0;
   var t = _t;
   var dpi = 240;
+  var cdn = false;
 
   if (App.IE) {
     // canvasが実装されていないのでdivに置換
@@ -118,7 +119,7 @@ function $Reader(_member, _superuser, _t, _nomenu) {
       currentPageIndex = nindex;
       var sceneIndex = 0;
       for(var i; i<scenes.length; i++){
-        if(currentPageIndex === scenes['i']['page_number']){
+        if(currentPageIndex === (scenes[i]['page_number']-1)){
           break;
         }
         sceneIndex++;
@@ -126,7 +127,7 @@ function $Reader(_member, _superuser, _t, _nomenu) {
       currentSceneIndex = sceneIndex;
     }else{
       currentSceneIndex = nindex;
-      currentPageIndex = scenes[currentSceneIndex]['page_number'];
+      currentPageIndex = scenes[currentSceneIndex]['page_number']-1;
     }
   };
 
@@ -170,6 +171,7 @@ function $Reader(_member, _superuser, _t, _nomenu) {
         var rate =  Math.sqrt(320/screen.width);
         context.scale(rate, rate);
       }
+
       context.drawImage(i, dx, dy);
       if(App.ANDROID21){
         context.restore();
@@ -227,7 +229,12 @@ function $Reader(_member, _superuser, _t, _nomenu) {
         param = "?t="+t;
       }
     }
-    ajax_get(API_ROOT + '/storyMetaFile/' + storyId+param, 'json', fnSuccess, fnError, cache);
+
+    var host = "";
+    if(cdn){
+      host = "http://cdn."+location.host;
+    }
+    ajax_get(host + API_ROOT + '/storyMetaFile/' + storyId+param, 'json', fnSuccess, fnError, cache);
   };
 
   /**
@@ -313,7 +320,11 @@ function $Reader(_member, _superuser, _t, _nomenu) {
     if(t > 0){
       param = "?t="+t;
     }
-    i.src = API_ROOT + '/sceneImage/' + sceneId + '/' + mode + '/' + dpi + param;
+    var host = "";
+    if(cdn){
+      host = "http://cdn."+location.host;
+    }
+    i.src = host+API_ROOT + '/sceneImage/' + sceneId + '/' + mode + '/' + dpi + param;
     return i;
   };
 
@@ -338,7 +349,11 @@ function $Reader(_member, _superuser, _t, _nomenu) {
     if(t > 0){
       param = "?t="+t;
     }
-    i.src = API_ROOT + '/pageImage/' + pageId + '/' + mode + '/' + dpi + param;
+    var host = "";
+    if(cdn){
+      host = "http://cdn."+location.host;
+    }
+    i.src = host+API_ROOT + '/pageImage/' + pageId + '/' + mode + '/' + dpi + param;
     return i;
   };
 
@@ -805,6 +820,10 @@ function $Reader(_member, _superuser, _t, _nomenu) {
       storyMetaFile = json;
       scenes = storyMetaFile["scenes"];
       pages = storyMetaFile["pages"];
+
+      if(storyMetaFile["csn"]){
+        cdn = true;
+      }
       updateProgress();
 
       if(storyMetaFile['enable_original_mode']){
@@ -878,7 +897,7 @@ function $Reader(_member, _superuser, _t, _nomenu) {
       $("#toggle_page_view").hide();
       $("#toggle_scene_view").show();
       $("#prev_page").hide();
-      $("#prev_show").show();
+      $("#prev_scene").show();
   };
 
   var prepareMenu = function(){

diff --git a/src/main/resources/ja.pc.css b/src/main/resources/ja.pc.css
@@ -19,8 +19,7 @@
   width:100%;
   z-index:10;
   text-indent:0;
-  font-size: 100%;
-  font-weight: bold;
+  font-size: 90;
   line-height:28px;
 }
 
@@ -83,3 +82,15 @@
 #popup_original {z-index:20;position:absolute;top:230px;left:230px;}
 #popup_scene {z-index:20;position:absolute;top:320px;left:260px;}
 #popup_page {z-index:20;position:absolute;top:320px;left:260px;}
+
+#fullscreen_page_prev         {background-position:    0   -342px; width: 170px;height: 68px; cursor:pointer}
+#fullscreen_page_prev:hover   {background-position: -171px -342px; width: 170px;height: 68px; cursor:pointer}
+#fullscreen_page_prev.disable {background-position: -342px -342px; width: 170px;height: 68px; cursor:default}
+
+#fullscreen_page_next         {background-position:      0 -411px; width: 170px;height: 68px; cursor:pointer}
+#fullscreen_page_next:hover   {background-position: -171px -411px; width: 170px;height: 68px; cursor:pointer}
+#fullscreen_page_next.disable {background-position: -342px -411px; width: 170px;height: 68px; cursor:default}
+
+#close_fullscreen        {background-position: -408px -58px;width: 30px;height: 28px; cursor:pointer;}
+#close_fullscreen:hover  {background-position: -439px -58px;width: 30px;height: 28px; cursor:pointer;}
+#close_fullscreen:active {background-position: -470px -58px;width: 30px;height: 28px; cursor:pointer;}

diff --git a/src/main/js/ja_pc.html b/src/main/js/ja_pc.html
@@ -9,9 +9,9 @@
       fileref.setAttribute("rel", "stylesheet");
       fileref.setAttribute("type", "text/css");
       if($(window).width() <= 320){
-          fileref.setAttribute("href", "layout.320.css" );
+          fileref.setAttribute("href", "layout.320.css?v=1" );
       }else{
-          fileref.setAttribute("href", "layout.480.css" );
+          fileref.setAttribute("href", "layout.480.css?v=1" );
       }
       document.getElementsByTagName('head').item(0).appendChild(fileref);
     </script>

diff --git a/src/test/resources/debug_ex.php b/src/test/resources/debug_ex.php
@@ -11,17 +11,6 @@
     $("#progress_current").text(Controll.current());
     $("#progress_total").text(Controll.total());
   }, 100);
-  var popUpChangeMode = function(){
-    //
-  };
-  var popUpChangeView = function(){
-    //
-  };
-  var showFullScreen = function(){
-    $("#fullscreen").width($(window).width());
-    $("#fullscreen").height($(window).height());
-    $("#fullscreen").show();
-  }
 </script>
 <style type="text/css">
 .sprite2 {background-image: url(ja.480.png?v=1); background-repeat: no-repeat; text-indent:-9999px; overflow: hidden; display:block;}
